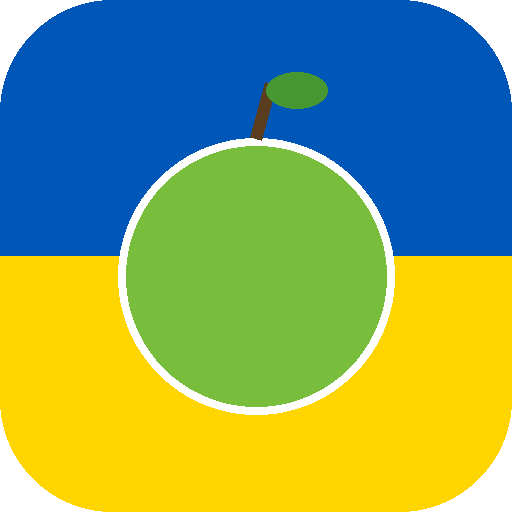
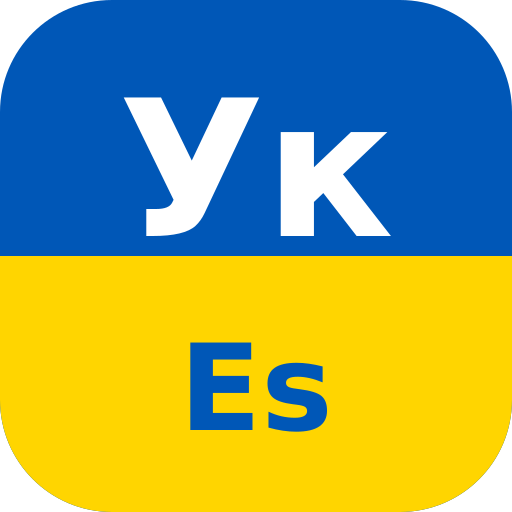
Prices from the decisions doc: 1/8/16 packages, pair price, founding discount, package end dates; Ucranización · Práctica branding
Claude-Session: https://claude.ai/code/session_01RW3e8do3bW14Uciy8zqA4m

Changed region(s): [[0.2188, 0.125, 0.7812, 0.8438]]

diff --git a/docs/app.js b/docs/app.js
@@ -1,5 +1,5 @@
 /* =====================================================================
-   Яблуко · practice app
+   Ucranización · Práctica / Practice
    Students: daily spaced repetition (like "Mein Wortschatz") + lesson games
    for the lessons the teacher has unlocked. Teacher: students, unlocks, progress.
    ===================================================================== */
@@ -223,9 +223,9 @@ function wireSpeak(root){ root.querySelectorAll("[data-say]").forEach(b => b.onc
 function renderLogin(msg){
   $("#app").className = "wrap";
   $("#app").innerHTML = `<div class="login">
-    <div class="logo">🍏</div>
-    <h1 style="text-align:center">Яблуко</h1>
-    <p class="sub" style="text-align:center">Українська · практика</p>
+    <div class="logo">🇺🇦</div>
+    <h1 style="text-align:center">Ucranización</h1>
+    <p class="sub" style="text-align:center">Práctica · Practice</p>
     <form id="lf">
       <label class="f" for="lu">Логін · Username</label>
       <input class="field" id="lu" autocomplete="username" autocapitalize="off" spellcheck="false" required>
@@ -309,12 +309,23 @@ function congratulate(stage){
   $("#cok").onclick = closeModal;
 }
 let BAL = null;   // classes left, null until the database has the class balance
+let BEXP = null;  // last package valid until (YYYY-MM-DD), needs supabase/migrate_3.sql
 async function loadBalance(){
   if (!me || isTeacher()) return;
+  const r = await sb.rpc("my_package");
+  if (!r.error && r.data) { BAL = r.data.balance; BEXP = r.data.expires_on || null; return; }
   const { data, error } = await sb.rpc("my_balance");
   BAL = error ? null : data;
 }
+const dmy = d => new Date(d + "T12:00:00").toLocaleDateString(undefined, { day: "numeric", month: "short", year: "numeric" });
+const daysTo = d => Math.round((new Date(d + "T12:00:00") - new Date(today() + "T12:00:00")) / 864e5);
 function balanceBanner(){
+  if (BAL !== null && BAL > 0 && BEXP && daysTo(BEXP) <= 7) {
+    const d = dmy(BEXP), left = daysTo(BEXP);
+    return left < 0
+      ? `<div class="balbar zero">${I2(`Термін пакета минув ${d}. Напиши вчителю`, `Your package expired on ${d}. Message your teacher`)}</div>`
+      : `<div class="balbar">${I2(`Пакет діє до ${d}: залишилось ${BAL} ${pl(BAL, "заняття", "заняття", "занять")}`, `Your package is valid until ${d}: ${BAL} ${BAL === 1 ? "class" : "classes"} left`)}</div>`;
+  }
   if (BAL === null || BAL > 3) return "";
   const n = Math.max(0, BAL);
   return n === 0
@@ -893,9 +904,36 @@ async function loadTeacher(){
   ]);
   T.ledgerOK = !lg.error; T.ledger = {};
   if (!lg.error) for (const r of lg.data) (T.ledger[r.student_id] ||= []).push(r);
-  T.prices = (!pr.error && pr.data && pr.data.value) || { currency: "€", packs: {} };
+  const saved = !pr.error && pr.data && pr.data.value;
+  T.prices = saved && saved.v === 2 ? { ...DEFAULT_PRICES, ...saved } : { ...DEFAULT_PRICES };   // older saved prices were placeholders
+  // package expiry (supabase/migrate_3.sql) and founding students (stored with the settings, no migration needed)
+  const [ex, fd] = await Promise.all([
+    sb.from("ledger").select("expires_on").limit(1),
+    sb.from("app_settings").select("value").eq("key", "founding").maybeSingle(),
+  ]);
+  T.expiryOK = T.ledgerOK && !ex.error;
+  T.founding = (!fd.error && fd.data && fd.data.value) || {};
 }
-const PACKS = [1, 4, 8, 16, 32];
+// Decisions doc (13 Nov 2026): single $20 · 8 for $136 (6 weeks) · 16 for $256 (12 weeks) · pair $14 per person · founding −15% for 6 months.
+// The 32-class package is on hold until there's more content: add 32 back here and in DEFAULT_PRICES.
+const PACKS = [1, 8, 16];
+const DEFAULT_PRICES = { v: 2, currency: "$", packs: { 1: 20, 8: 136, 16: 256 }, pair: 14, weeks: { 8: 6, 16: 12 }, founding: 15, foundingMonths: 6 };
+const plusDays = (d, n) => { const x = new Date(d + "T12:00:00"); x.setDate(x.getDate() + n); return fmt(x); };
+const plusMonths = (d, n) => { const x = new Date(d + "T12:00:00"); x.setMonth(x.getMonth() + n); return fmt(x); };
+const lastPackage = id => (T.ledger[id] || []).find(r => r.kind === "package" && r.expires_on);
+const foundingUntil = id => { const d = T.founding[id]; return d && daysTo(d) >= 0 ? d : null; };
+function expiryNote(id){   // "valid until …" for the latest package, while classes are left
+  const p = lastPackage(id); if (!p || balanceOf(id) <= 0) return "";
+  const n = daysTo(p.expires_on);
+  return n < 0 ? `<span class="exp bad">expired ${dmy(p.expires_on)}</span>`
+       : n <= 7 ? `<span class="exp soon">valid until ${dmy(p.expires_on)} (${n} ${n === 1 ? "day" : "days"})</span>`
+       : `<span class="exp">valid until ${dmy(p.expires_on)}</span>`;
+}
+async function saveFounding(){
+  const { error } = await sb.from("app_settings").upsert({ key: "founding", value: T.founding, updated_at: new Date().toISOString() });
+  if (error) toast("Couldn't save: " + error.message);
+  return !error;
+}
 const balanceOf = id => (T.ledger[id] || []).reduce((s, r) => s + r.delta, 0);
 const money = v => v === null || v === undefined || v === "" ? "" : `${T.prices.currency || ""}${Number(v).toLocaleString()}`;
 function monthSummary(){
@@ -920,7 +958,7 @@ function ago(ts){
 async function renderTeacher(){
   EN = true;
   $("#app").innerHTML = `<div class="head"><div><h1>Students</h1><p class="sub" style="margin:0">Hi ${esc(me.nickname)} · teacher</p></div>
-    <div class="who"><button class="chip" id="prices">💶 Prices</button><button class="chip" id="toP">🍏 Practice</button><button class="chip" id="settings">⚙</button></div></div><div id="tmain"><p class="status">Завантаження…</p></div>`;
+    <div class="who"><button class="chip" id="prices">💶 Prices</button><button class="chip" id="toP">📚 Practice</button><button class="chip" id="settings">⚙</button></div></div><div id="tmain"><p class="status">Завантаження…</p></div>`;
   $("#toP").onclick = () => { view = { tab: "home" }; rs = { view: "menu" }; render(); };
   $("#prices").onclick = () => T ? openPrices() : null;
   $("#settings").onclick = () => openSettings();
@@ -936,14 +974,14 @@ function renderStudentList(){
          : `<p class="note" style="margin:-4px 0 12px">Class balances are off until you run <b>supabase/migrate_2.sql</b> in Supabase.</p>`}
     <div class="tlist">${T.students.length ? T.students.map(s => { const st = studentStats(s);
       return `<button class="trow" data-s="${s.id}"><div><b>${esc(s.nickname)}</b> <span class="note">@${esc(s.username)}</span>
-        <div class="m2">Last active: ${ago(s.last_seen)} · ${st.un.size} lessons open</div></div>
+        <div class="m2">Last active: ${ago(s.last_seen)} · ${st.un.size} lessons open${foundingUntil(s.id) ? " · ⭐ founding" : ""}${T.ledgerOK && expiryNote(s.id).includes("exp ") ? " · " + expiryNote(s.id) : ""}</div></div>
         <div class="nums">${T.ledgerOK ? `<div class="${balanceOf(s.id) <= 3 ? "lowbal" : ""}"><b>${balanceOf(s.id)}</b>classes</div>` : ""}<div><b>${st.level.toFixed(1)}%</b>to ${st.goal}</div><div><b>${st.due}</b>today</div><div><b>${st.learned}</b>learned</div></div></button>`; }).join("")
       : `<div class="empty"><div class="big">No students yet</div>Create your first student above.</div>`}</div>`;
   $("#add").onclick = openAddStudent;
   document.querySelectorAll("[data-s]").forEach(b => b.onclick = () => { view = { tab: "student", id: b.dataset.s }; renderStudent(); });
 }
 function genPassword(){
-  const latin = ["yabluko","kit","sontse","more","dim","lito","zyma","sad","myr","kava","chai","dub","les","vovk"];
+  const latin = ["kalyna","kit","sontse","more","dim","lito","zyma","sad","myr","kava","chai","dub","les","vovk"];
   const pick = a => a[Math.floor(Math.random() * a.length)];
   return `${pick(latin)}-${pick(latin)}-${Math.floor(1000 + Math.random() * 9000)}`;
 }
@@ -953,7 +991,7 @@ async function callAdmin(body){
   return data;
 }
 function credText(username, password){
-  return `Яблуко · Ukrainian practice\n${location.origin + location.pathname}\n\nLogin: ${username}\nPassword: ${password}\n\nYou can change your nickname and password in ⚙ after logging in.`;
+  return `Ucranización · Práctica / Practice\n${location.origin + location.pathname}\n\nLogin: ${username}\nPassword: ${password}\n\nYou can change your nickname and password in ⚙ after logging in.`;
 }
 function showCredentials(username, password, title){
   const txt = credText(username, password);
@@ -1005,7 +1043,7 @@ function stageOf(s, st){
 const stamp = t => new Date(t).toLocaleString(undefined, { day: "numeric", month: "short", year: "numeric", hour: "2-digit", minute: "2-digit" });
 function ledgerRows(rows){
   return rows.map(r => `<div class="lrow"><span class="ld">${stamp(r.created_at)}</span>
-      <span class="lt">${r.kind === "class" ? "Class held" : r.kind === "package" ? `Package +${r.delta}` : `Correction ${r.delta > 0 ? "+" : ""}${r.delta}`}${r.amount ? " · " + money(r.amount) : ""}${r.note ? ` · <span class="note">${esc(r.note)}</span>` : ""}</span>
+      <span class="lt">${r.kind === "class" ? "Class held" : r.kind === "package" ? `Package +${r.delta}${r.expires_on ? ` · valid until ${dmy(r.expires_on)}` : ""}` : `Correction ${r.delta > 0 ? "+" : ""}${r.delta}`}${r.amount ? " · " + money(r.amount) : ""}${r.note ? ` · <span class="note">${esc(r.note)}</span>` : ""}</span>
       <span class="lv ${r.delta < 0 ? "neg" : "pos"}">${r.delta > 0 ? "+" : ""}${r.delta}</span><button class="lx" data-del="${r.id}" title="Delete">✕</button></div>`).join("");
 }
 function wireLedgerDelete(s, root, redraw){
@@ -1022,12 +1060,24 @@ function drawClasses(s){
   const bal = balanceOf(s.id), all = T.ledger[s.id] || [];
   box.innerHTML = `<h3>Classes</h3>
     <div class="balbig ${bal <= 3 ? "low" : ""}"><b>${bal}</b><span>${bal < 0 ? "classes owed" : bal === 1 ? "class left" : "classes left"}</span></div>
+    ${expiryNote(s.id) ? `<p class="note" style="margin:-6px 0 10px">${expiryNote(s.id)}</p>` : ""}
+    <div class="founding">${foundingUntil(s.id)
+      ? `<span class="fchip">⭐ Founding price −${T.prices.founding}% until ${dmy(foundingUntil(s.id))}</span><button class="linkbtn" id="funset">Remove</button>`
+      : `<button class="linkbtn" id="fset">⭐ Mark as founding student (−${T.prices.founding}% for ${T.prices.foundingMonths} months)</button>`}</div>
     <div class="row two"><button class="btn blue" id="held">✓ Class held<br><small>−1 class</small></button><button class="btn ghost" id="pack">＋ Package<br><small>add classes</small></button></div>
     ${bal <= 3 ? `<div class="row"><button class="btn ghost small" id="remind">✉ Send a reminder</button></div>` : ""}
     ${all.length ? `<div class="ledger">${ledgerRows(all.slice(0, 3))}</div>
       <button class="linkbtn" id="hist">Full history (${all.length}) →</button>` : `<p class="note">No packages or classes yet.</p>`}`;
   $("#held").onclick = () => classHeld(s);
   $("#pack").onclick = () => openPackage(s);
+  if ($("#fset")) $("#fset").onclick = async () => {
+    T.founding[s.id] = plusMonths(today(), T.prices.foundingMonths);
+    if (await saveFounding()) { toast(`Founding price until ${dmy(T.founding[s.id])}`); drawClasses(s); } else delete T.founding[s.id];
+  };
+  if ($("#funset")) $("#funset").onclick = async () => {
+    const was = T.founding[s.id]; delete T.founding[s.id];
+    if (await saveFounding()) { toast("Founding price removed"); drawClasses(s); } else T.founding[s.id] = was;
+  };
   if ($("#remind")) $("#remind").onclick = () => openReminder(s);
   if ($("#hist")) $("#hist").onclick = () => { view = { tab: "student", id: s.id, sub: "history" }; renderStudent(); window.scrollTo(0, 0); };
   wireLedgerDelete(s, box, () => drawClasses(s));
@@ -1060,23 +1110,42 @@ async function classHeld(s){
   };
 }
 function openPackage(s){
-  const P = T.prices.packs || {};
+  const P = T.prices.packs || {}, W = T.prices.weeks || {}, fu = foundingUntil(s.id), cur = T.prices.currency || "";
   openModal(`<h2>New package</h2><p class="sub">for ${esc(s.nickname)}</p>
     <div class="seg">${PACKS.map(n => `<button data-n="${n}">${n === 1 ? "1 · single" : n}</button>`).join("")}</div>
+    <label class="toggle"><input type="checkbox" id="ppair"><span class="tt">Pair lesson<span>${money(T.prices.pair)} per person per class</span></span></label>
+    ${fu ? `<label class="toggle"><input type="checkbox" id="pfound" checked><span class="tt">⭐ Founding price −${T.prices.founding}%<span>until ${dmy(fu)}</span></span></label>` : ""}
     <label class="f" for="pn">Classes (a negative number corrects the balance)</label><input class="field" id="pn" type="number" inputmode="numeric" value="8">
-    <label class="f" for="pa">Paid ${esc(T.prices.currency || "")}</label><input class="field" id="pa" type="number" inputmode="decimal" placeholder="optional">
+    <label class="f" for="pa">Paid ${esc(cur)}</label><input class="field" id="pa" type="number" inputmode="decimal" placeholder="optional">
+    ${T.expiryOK ? `<label class="f" for="pe">Valid until</label><input class="field" id="pe" type="date"><div class="hint2">Empty = no end date.</div>`
+                 : `<p class="note">Run <b>supabase/migrate_3.sql</b> in Supabase to save package end dates.</p>`}
     <label class="f" for="pnote">Note</label><input class="field" id="pnote" placeholder="optional, e.g. bank transfer">
     <div class="err" id="perr"></div>
     <div class="row two"><button class="btn ghost" id="pc">Cancel</button><button class="btn blue" id="pok">Add</button></div>`);
-  const pick = n => { $("#pn").value = n; $("#pa").value = P[n] ?? "";
-    document.querySelectorAll("[data-n]").forEach(b => b.classList.toggle("on", +b.dataset.n === n)); };
+  let n = 8;
+  const price = () => {
+    const pair = $("#ppair").checked, found = $("#pfound") && $("#pfound").checked;
+    let v = pair ? (T.prices.pair || 0) * n : P[n] ?? (P[1] ? P[1] * n : null);
+    if (v !== null && found) v = Math.round(v * (100 - T.prices.founding)) / 100;
+    $("#pa").value = v ?? "";
+  };
+  const pick = k => { n = k; $("#pn").value = k; price();
+    if ($("#pe")) $("#pe").value = W[k] ? plusDays(today(), W[k] * 7) : "";
+    document.querySelectorAll("[data-n]").forEach(b => b.classList.toggle("on", +b.dataset.n === k)); };
   document.querySelectorAll("[data-n]").forEach(b => b.onclick = () => pick(+b.dataset.n)); pick(8);
+  $("#pn").oninput = () => { n = parseInt($("#pn").value, 10) || 0; price();
+    document.querySelectorAll("[data-n]").forEach(b => b.classList.toggle("on", +b.dataset.n === n)); };
+  $("#ppair").onchange = price; if ($("#pfound")) $("#pfound").onchange = price;
   $("#pc").onclick = closeModal;
   $("#pok").onclick = async () => {
-    const n = parseInt($("#pn").value, 10), a = $("#pa").value === "" ? null : Number($("#pa").value);
-    if (!n) { $("#perr").textContent = "Enter the number of classes."; return; }
+    const k = parseInt($("#pn").value, 10), a = $("#pa").value === "" ? null : Number($("#pa").value);
+    if (!k) { $("#perr").textContent = "Enter the number of classes."; return; }
+    const tags = [$("#ppair").checked ? "pair" : "", $("#pfound") && $("#pfound").checked ? `founding −${T.prices.founding}%` : ""].filter(Boolean);
+    const note = [...tags, $("#pnote").value.trim()].filter(Boolean).join(" · ") || null;
+    const row = { delta: k, kind: k > 0 ? "package" : "fix", amount: a, note };
+    if (T.expiryOK && k > 0 && $("#pe").value) row.expires_on = $("#pe").value;
     $("#pok").disabled = true;
-    const ok = await addLedger(s, { delta: n, kind: n > 0 ? "package" : "fix", amount: a, note: $("#pnote").value.trim() || null });
+    const ok = await addLedger(s, row);
     if (ok) { closeModal(); toast(`Balance: ${balanceOf(s.id)} classes`); renderStudent(); } else $("#pok").disabled = false;
   };
 }
@@ -1097,11 +1166,15 @@ function openReminder(s){
   };
 }
 function openPrices(){
-  const P = T.prices.packs || {}, cur = T.prices.currency || "€";
-  openModal(`<h2>Prices</h2><p class="sub">Used to fill in the amount when you add a package. You can still change it for each student.</p>
+  const P = T.prices.packs || {}, W = T.prices.weeks || {}, cur = T.prices.currency || "$";
+  openModal(`<h2>Prices</h2><p class="sub">Used to fill in the amount and end date when you add a package. You can still change them for each student.</p>
     <label class="f" for="pcur">Currency</label><input class="field" id="pcur" value="${esc(cur)}" maxlength="4" style="max-width:120px">
     <div class="ptable">${PACKS.map(n => `<div class="prow"><span class="pn">${n === 1 ? "Single class" : n + " classes"}</span>
-      <input class="field" data-p="${n}" type="number" inputmode="decimal" value="${P[n] ?? ""}" placeholder="—"><span class="pper" id="pp${n}"></span></div>`).join("")}</div>
+      <input class="field" data-p="${n}" type="number" inputmode="decimal" value="${P[n] ?? ""}" placeholder="—"><span class="pper" id="pp${n}"></span></div>
+      ${n > 1 ? `<div class="prow sub2"><span class="pn">valid for</span><input class="field" data-w="${n}" type="number" inputmode="numeric" value="${W[n] ?? ""}" placeholder="—"><span class="pper">weeks</span></div>` : ""}`).join("")}
+      <div class="prow"><span class="pn">Pair, per person</span><input class="field" id="ppairp" type="number" inputmode="decimal" value="${T.prices.pair ?? ""}" placeholder="—"><span class="pper">per class</span></div>
+      <div class="prow"><span class="pn">Founding discount</span><input class="field" id="pfd" type="number" inputmode="numeric" value="${T.prices.founding ?? 15}"><span class="pper">% for</span></div>
+      <div class="prow sub2"><span class="pn"></span><input class="field" id="pfm" type="number" inputmode="numeric" value="${T.prices.foundingMonths ?? 6}"><span class="pper">months</span></div></div>
     ${T.ledgerOK ? "" : `<p class="note">Run <b>supabase/migrate_2.sql</b> first, then prices can be saved.</p>`}
     <div class="err" id="prerr"></div>
     <div class="row two"><button class="btn ghost" id="prc">Cancel</button><button class="btn blue" id="prs">Save</button></div>`);
@@ -1111,8 +1184,12 @@ function openPrices(){
   document.querySelectorAll("[data-p], #pcur").forEach(i => i.oninput = upd); upd();
   $("#prc").onclick = closeModal;
   $("#prs").onclick = async () => {
-    const packs = {}; PACKS.forEach(n => { const v = document.querySelector(`[data-p="${n}"]`).value; if (v !== "") packs[n] = Number(v); });
-    const value = { currency: $("#pcur").value.trim() || "€", packs };
+    const num = v => v === "" ? undefined : Number(v);
+    const packs = {}, weeks = {};
+    PACKS.forEach(n => { const v = num(document.querySelector(`[data-p="${n}"]`).value); if (v !== undefined) packs[n] = v;
+      const w = document.querySelector(`[data-w="${n}"]`); if (w && num(w.value)) weeks[n] = num(w.value); });
+    const value = { v: 2, currency: $("#pcur").value.trim() || "$", packs, weeks, pair: num($("#ppairp").value),
+      founding: num($("#pfd").value) ?? 15, foundingMonths: num($("#pfm").value) ?? 6 };
     const { error } = await sb.from("app_settings").upsert({ key: "prices", value, updated_at: new Date().toISOString() });
     if (error) { $("#prerr").textContent = error.message; return; }
     T.prices = value; closeModal(); toast("Prices saved");

diff --git a/docs/index.html b/docs/index.html
@@ -4,13 +4,13 @@
 <meta charset="utf-8">
 <meta name="viewport" content="width=device-width, initial-scale=1">
 <meta name="theme-color" content="#0057b7">
-<title>Яблуко · Українська</title>
+<title>Ucranización · Práctica</title>
 <link rel="manifest" href="manifest.webmanifest">
 <link rel="icon" href="icon.svg" type="image/svg+xml">
 <link rel="apple-touch-icon" href="icon-192.png">
 <link rel="preconnect" href="https://fonts.googleapis.com">
 <link href="https://fonts.googleapis.com/css2?family=Noto+Serif:wght@500;700&family=Noto+Sans:wght@400;500;600;700&display=swap" rel="stylesheet">
-<link rel="stylesheet" href="style.css?v=20261113010330">
+<link rel="stylesheet" href="style.css?v=20261113045610">
 </head>
 <body>
 <div class="flag"></div>
@@ -20,10 +20,10 @@
 <div class="modal" id="modal" hidden><div class="sheet" id="sheet"></div></div>
 <div class="toast" id="toast" hidden></div>
 
-<script>window.APP_V="20261113010330";try{var t=localStorage.getItem("theme");if(t)document.documentElement.dataset.theme=t}catch(e){}</script>
+<script>window.APP_V="20261113045610";try{var t=localStorage.getItem("theme");if(t)document.documentElement.dataset.theme=t}catch(e){}</script>
 <script src="https://cdn.jsdelivr.net/npm/@supabase/supabase-js@2"></script>
-<script src="config.js?v=20261113010330"></script>
-<script src="data.js?v=20261113010330"></script>
-<script src="app.js?v=20261113010330"></script>
+<script src="config.js?v=20261113045610"></script>
+<script src="data.js?v=20261113045610"></script>
+<script src="app.js?v=20261113045610"></script>
 </body>
 </html>

diff --git a/docs/style.css b/docs/style.css
@@ -293,3 +293,11 @@ textarea.field{width:100%;padding:12px 14px;border-radius:12px;border:1px solid 
 .nextl .tt{flex:1;font-weight:600;font-size:14px}
 .nextl .tt span{display:block;font-weight:400;font-size:12px;color:var(--muted)}
 .lrow .ld{min-width:150px}
+/* package end dates and founding students */
+.exp{color:var(--muted);font-weight:600}
+.exp.soon{color:var(--orange)}
+.exp.bad{color:var(--red)}
+.founding{display:flex;align-items:center;gap:10px;flex-wrap:wrap;margin:0 0 12px}
+.founding .linkbtn{margin:0}
+.fchip{background:var(--yellow-soft);border:1px solid var(--yellow);border-radius:999px;padding:4px 10px;font-size:13px;font-weight:600}
+.prow.sub2 .pn{color:var(--muted);font-size:13px;padding-left:12px}

diff --git a/AGENTS.md b/AGENTS.md
@@ -1,4 +1,6 @@
-# Яблуко · Ukrainian practice app: project brief
+# Ucranización · Práctica: Ukrainian practice app, project brief
+
+Brand: the school is «Ucranización» (Instagram @ucranizacion). The app has no name of its own, caption «Práctica / Practice». Don't mention the textbook name in the app or materials. The repo and URL keep the old name `yabluko` so links keep working.
 
 Read this first if you're picking up this project.
 
@@ -84,3 +86,7 @@ board; this app is where students practise between classes.
 - Theme: Auto / Light / Dark in Settings (localStorage "theme", html[data-theme]).
 - Interface language (STAGE): 0 bilingual; 1 labels in Ukrainian (all Intro lessons at 100%); 2 all Ukrainian (all 52 A1 lessons at 100%). Helpers L/Ls (labels), I/I2 (instructions), TT (titles), HU (game hints via HINT_UA). Student can force bilingual (profiles.ui_choice='bi'); teacher override profiles.ui_override; congratulations shown once (profiles.ui_seen + localStorage). Settings → Мова page always stays bilingual.
 - Class balance: table ledger (+package / −class / fix), teacher-only RLS; students read their number via rpc my_balance(). Prices in app_settings key 'prices' {currency, packs:{1,4,8,16,32}}. "Заняття відбулося" deducts 1, then offers to open the next lessons; at ≤3 offers a reminder via the share sheet. Needs supabase/migrate_2.sql (app degrades gracefully without it).
+
+- Prices (decisions doc, 13 Nov 2026): USD, paid in UAH at the NBU rate. Single $20; 8 classes $136, valid 6 weeks; 16 classes $256, valid 12 weeks; pair $14 per person per class; founding students −15% for 6 months. 32-class package on hold (add it back to PACKS and DEFAULT_PRICES). app_settings 'prices' is now {v:2, currency, packs, weeks, pair, founding, foundingMonths}; older saved prices without v:2 are ignored.
+- Package end dates: ledger.expires_on (supabase/migrate_3.sql). The package dialog fills it from weeks; teacher sees "valid until" (orange ≤7 days, red when expired); students see a banner from 7 days before (rpc my_package(), falls back to my_balance()). Nothing is taken away automatically when a package expires: policy still to be decided.
+- Founding students: app_settings key 'founding' = {student_id: "YYYY-MM-DD"} (no migration). Package dialog applies the discount while it's active.
